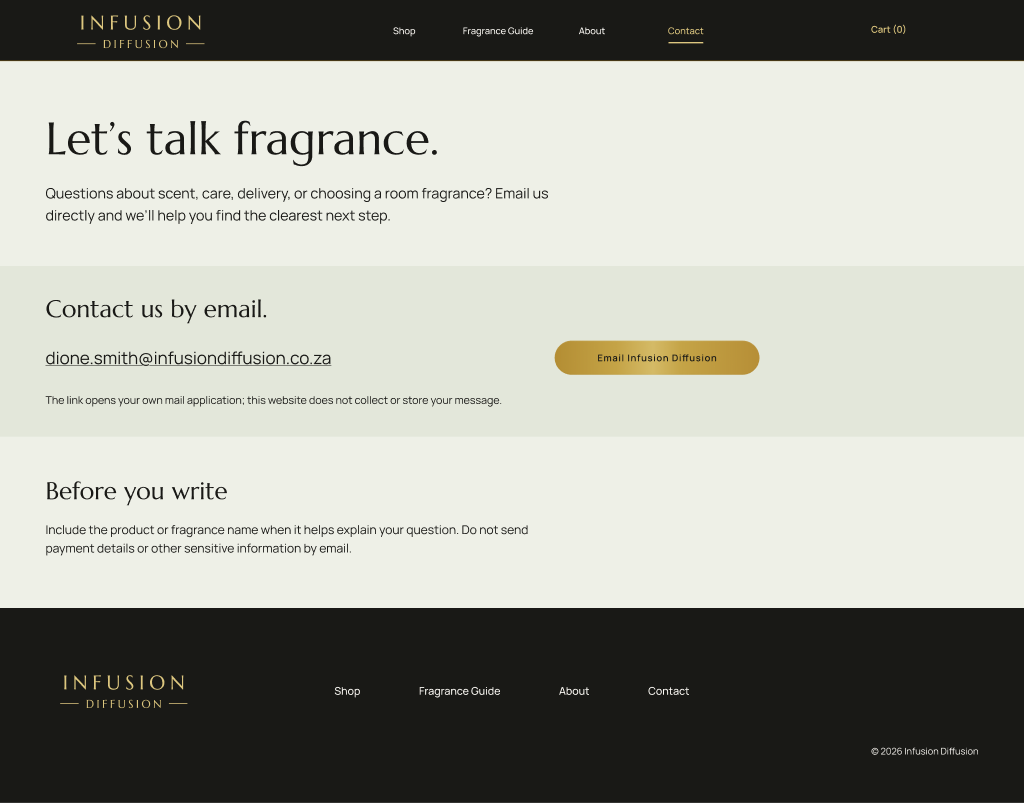
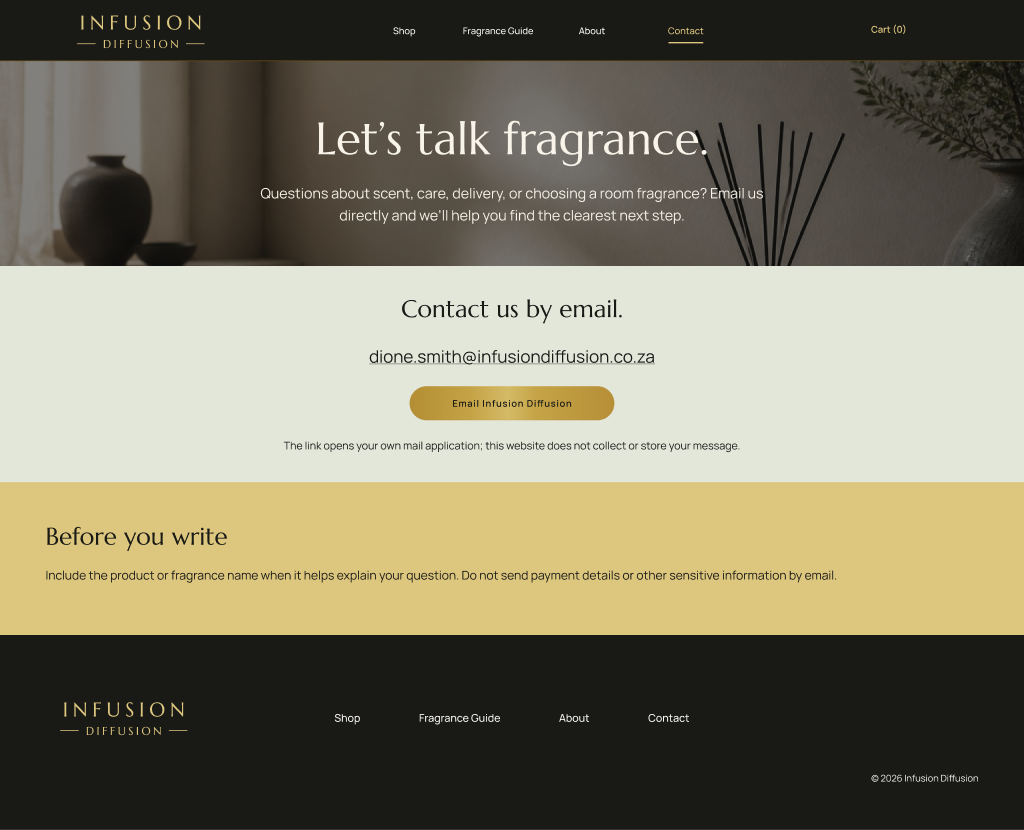
Revise Contact hero alignment and section treatments

diff --git a/docs/features/inf-27-contact.md b/docs/features/inf-27-contact.md
@@ -53,6 +53,8 @@ their deferral does not authorize changing the observed public address.
    requirements. No new motion is required.
 5. Show or specify loading, page failure, content extremes and missing/invalid
    contact-data handling, preserving the current route's safe fallback boundary.
+   If the placeholder hero image is unavailable, retain a solid dark surface
+   and readable hero text.
 6. Reuse actual design-system components and record source/target node IDs,
    composition decisions, screenshot comparison and known limitations outside
    customer frames.
@@ -71,10 +73,14 @@ customer communication or production deployment is part of this preparation.
 
 ## Design handoff
 
-Contact exploration uses the approved midnight header/footer and a compact,
-text-led introduction. The email address and gold action form the primary
-contact block; existing writing guidance follows. Photography and additional
-marketing sections are unnecessary for this direct service task.
+Contact exploration uses the approved midnight header/footer. Devon requested
+a centered hero heading and introduction over the same placeholder image used
+by Shop: /images/homepage-bespoke-diffuser-blurb.png, with the existing collection
+hero scrim for readable text. The main email section is centered, including its
+heading, address, gold action and helper. The bottom Before you write section
+uses Home's invitation surface (collection-invitation-surface / gold-300), and
+its text spans the full content rail within the responsive gutters. No new
+marketing sections or factual copy are introduced.
 
 | Width | Exploration frame                                                                                               |
 | ----- | --------------------------------------------------------------------------------------------------------------- |
@@ -102,14 +108,23 @@ records source copy, design decisions, behavior and state requirements.
 The designer inspected all four responsive screenshots and top-level bounds;
 the coordinator independently inspected desktop and mobile compositions.
 The email address link has a minimum 44px target, with natural height growth
-specified for long addresses. No photography, new tokens or source mutations
-were introduced.
+specified for long addresses. The existing Shop photograph is a user-requested
+placeholder, not final Contact imagery. No new tokens or source mutations are
+introduced.
 
-Final frames measure 1440×1129, 768×994, 390×1220 and 320×1295. All four email
+Final revised frames measure 1440×1167, 768×994, 390×1220 and 320×1295. All four email
 targets are 44px high; primary actions are 48px high. Nested overflow and
 font-mismatch checks returned no findings. Final captures:
 [desktop](evidence/inf27-contact-1440.png) and
 [mobile](evidence/inf27-contact-390.png).
+
+The hero reuses Shop image nodes `2349:405/544`, image hash
+`caf5cbcb8c998c1d7137be59874787e1178c997e`, with centered cover and the 54% ink
+scrim. The gold section matches Home invitation `2349:89`, using existing
+`#DDC77F` / gold-300. The bottom text spans 1312/688/342/280px content rails.
+The designer checked all revised frames; the coordinator re-inspected the
+desktop/mobile captures. Centered alignment, unchanged copy, existing fonts
+and no nested horizontal overflow were confirmed.
 
 Changed-document formatting and diff checks pass. These are design/documentation
 checks, not runtime accessibility evidence. Keyboard behavior, contrast under

diff --git a/DESIGN.md b/DESIGN.md
@@ -5,8 +5,10 @@
 The [Contact brief](docs/features/inf-27-contact.md) records INF-27 exploration
 frames `2529:2/19/37/55` at 1440/768/390/320. Reuse the approved midnight shell,
 Marcellus/Manrope and corrected gold action. Keep the existing source-owned
-mailbox, direct-email behavior and factual copy. Proposed composition: compact
-introductory block, prominent email address/action and existing writing guidance.
+mailbox, direct-email behavior and factual copy. Devon requested centered hero
+text over the existing Shop placeholder image, a centered email section, and
+a gold-300 Before you write section with text spanning the full content rail.
+Reuse collection-hero-scrim and collection-invitation-surface.
 The duplicate email headings become “Contact us by email.”
 
 These frames are exploratory. Devon approves them before runtime and Storybook

diff --git a/docs/planning/roadmap.md b/docs/planning/roadmap.md
@@ -12,7 +12,9 @@ Guide recommendations remain unavailable pending matching.
 INF-27 remains In Progress, owned by Shawnee, with Devon approving exact
 Contact frames. Prepare Contact at 1440/768/390/320 using the existing direct-email
 behavior, published mailbox and approved copy. Preserve the shared shell,
-semantic tokens and fonts. No contact form, new service facts or source
+semantic tokens and fonts. Devon requested Shop's placeholder hero image with
+centered hero text, a centered email section and Home's gold invitation surface
+for full-width writing guidance. No contact form, new service facts or source
 publication is authorized. See the [Contact brief](../features/inf-27-contact.md).
 
 INF-35's bounded delivery in [PR #74](https://github.com/djamestaft/infusiondiffusion/pull/74)
